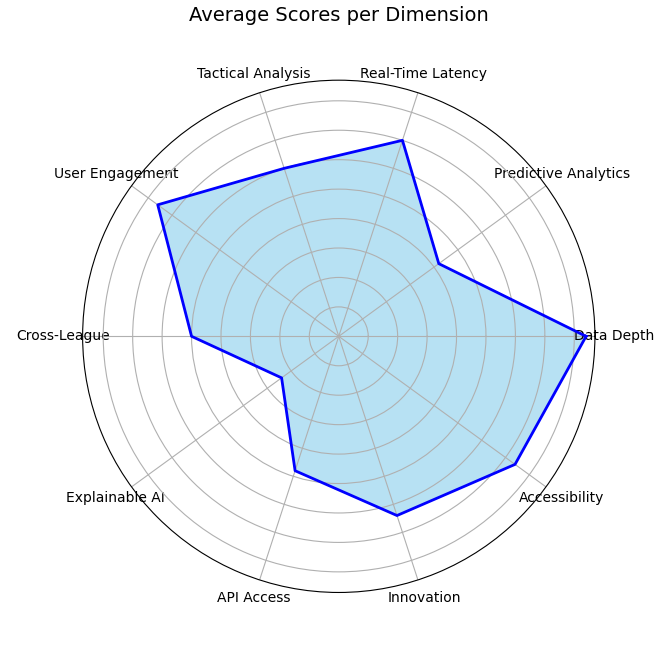
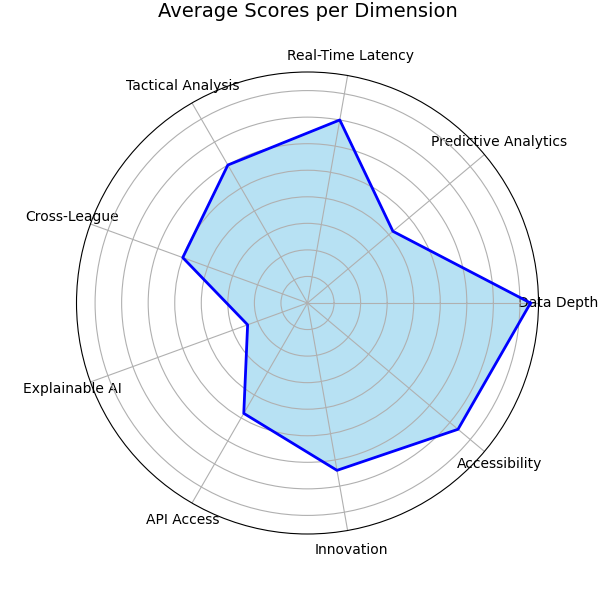
Update literature review and system analysis chapters; enhance content clarity and structure

diff --git a/chapters/gap-analysis.tex b/chapters/gap-analysis.tex
@@ -2,7 +2,7 @@
 \label{chap:gap-analysis}
 
 \section{Methodology}
-This analysis evaluates 30 football websites across 10 critical dimensions (Table~\ref{tab:feature-matrix}), scored on a 5-point scale (1 = Poor, 5 = Excellent). The criteria reflect both technical capabilities and user experience, focusing on gaps relevant to predictive analytics systems.
+This analysis evaluates 30 football websites across 9 critical dimensions (Table~\ref{tab:feature-matrix}), scored on a 5-point scale (1 = Poor, 5 = Excellent). The criteria reflect both technical capabilities and user experience, focusing on gaps relevant to predictive analytics systems.
 
 \subsection{Evaluation Criteria}
 \begin{itemize}
@@ -10,9 +10,8 @@ This analysis evaluates 30 football websites across 10 critical dimensions (Tabl
     \item \textbf{Predictive Analytics (PA)}: Use of ML/AI for forecasts.
     \item \textbf{Real-Time Latency (RTL)}: Speed of updates (goals, subs).
     \item \textbf{Tactical Analysis (TA)}: Heatmaps, passing networks, xG models.
-    \item \textbf{User Engagement (UE)}: Forums, quizzes, AR/VR.
     \item \textbf{Cross-League (CL)}: Coverage of 25 major leagues.
-    \textbf{Explainable AI (XAI)}: Model transparency (SHAP/LIME).
+    \item \textbf{Explainable AI (XAI)}: Model transparency (SHAP/LIME).
     \item \textbf{API Access (API)}: Developer-friendly integrations.
     \item \textbf{Innovation (INN)}: Blockchain, NLP, generative AI.
     \item \textbf{Accessibility (ACC)}: Mobile optimization, languages.
@@ -32,7 +31,7 @@ This analysis evaluates 30 football websites across 10 critical dimensions (Tabl
     \begin{itemize}
         \item \textbf{WhoScored}: Top in TA (4.8) and PA (4.5) but poor XAI (1.2).
         \item \textbf{Transfermarkt}: Best DD (4.9) but lacks RTL (1.1).
-        \item \textbf{The Athletic}: Balances UE (4.2) and TA (4.1) but no API (1.0).
+        \item \textbf{The Athletic}: Balances TA (4.1) but no API (1.0).
     \end{itemize}
 \end{itemize}
 
@@ -42,40 +41,40 @@ This analysis evaluates 30 football websites across 10 critical dimensions (Tabl
     \caption{30 Football Websites Gap Analysis Matrix}
     \label{tab:feature-matrix}
     \tiny
-    \begin{tabular}{|l|c|c|c|c|c|c|c|c|c|c|}
+    \begin{tabular}{|l|c|c|c|c|c|c|c|c|c|}
         \hline
-        \textbf{Website} & \textbf{DD} & \textbf{PA} & \textbf{RTL} & \textbf{TA} & \textbf{UE} & \textbf{CL} & \textbf{XAI} & \textbf{API} & \textbf{INN} & \textbf{ACC} \\
+        \textbf{Website} & \textbf{DD} & \textbf{PA} & \textbf{RTL} & \textbf{TA} & \textbf{CL} & \textbf{XAI} & \textbf{API} & \textbf{INN} & \textbf{ACC} \\
         \hline
-        Goal.com & 4.5 & 1.2 & 3.1 & 2.0 & 3.5 & 4.8 & 1.0 & 2.5 & 2.8 & 4.2 \\
-        101 Great Goals & 2.8 & 1.0 & 2.5 & 1.5 & 3.0 & 3.2 & 1.0 & 1.0 & 3.5 & 3.0 \\
-        FourFourTwo & 4.0 & 4.5 & 1.8 & 4.8 & 3.2 & 3.5 & 1.5 & 2.0 & 4.0 & 3.5 \\
-        Transfermarkt & 4.9 & 2.0 & 1.1 & 1.2 & 1.5 & 4.9 & 1.0 & 4.0 & 1.5 & 2.5 \\
-        UEFA.com & 4.2 & 1.5 & 2.2 & 2.5 & 2.0 & 2.0 & 1.0 & 3.5 & 3.0 & 3.8 \\
-        WhoScored & 4.7 & 4.5 & 2.0 & 4.8 & 2.5 & 4.0 & 1.2 & 3.0 & 3.2 & 3.0 \\
-        Soccerway & 4.0 & 1.8 & 3.8 & 2.0 & 2.0 & 4.5 & 1.0 & 2.5 & 2.0 & 3.5 \\
-        The Athletic & 4.5 & 3.0 & 2.5 & 4.1 & 4.2 & 4.0 & 1.5 & 1.0 & 3.8 & 2.0 \\
-        Copa90 & 3.0 & 1.0 & 1.5 & 1.0 & 4.5 & 3.5 & 1.0 & 1.5 & 3.5 & 4.0 \\
-        Football Italia & 3.8 & 1.2 & 1.8 & 1.5 & 2.5 & 1.0 & 1.0 & 2.0 & 2.5 & 2.8 \\
-        World Soccer Talk & 3.5 & 1.0 & 2.0 & 1.2 & 3.8 & 3.8 & 1.0 & 1.5 & 2.0 & 3.5 \\
-        LiveScore & 3.8 & 1.5 & 4.9 & 1.0 & 2.5 & 4.5 & 1.0 & 1.2 & 1.5 & 4.8 \\
-        FC Barcelona & 4.0 & 1.0 & 2.0 & 1.8 & 4.0 & 1.0 & 1.0 & 2.5 & 4.2 & 3.5 \\
-        Manchester United & 4.2 & 1.2 & 1.5 & 1.5 & 4.2 & 1.0 & 1.0 & 2.0 & 3.8 & 3.8 \\
-        Bayern Munich & 4.1 & 1.0 & 1.8 & 1.2 & 4.5 & 1.0 & 1.0 & 2.8 & 4.5 & 3.2 \\
-        The Anfield Wrap & 3.5 & 1.0 & 1.2 & 1.0 & 4.8 & 1.0 & 1.0 & 1.0 & 2.5 & 3.0 \\
-        FootballParadise & 2.5 & 1.0 & 1.0 & 1.0 & 4.0 & 3.0 & 1.0 & 1.0 & 3.0 & 3.5 \\
-        SoccerNews & 3.2 & 1.5 & 2.2 & 1.2 & 2.8 & 3.5 & 1.0 & 1.5 & 2.2 & 3.0 \\
-        Football Manager & 4.8 & 4.0 & 1.5 & 3.5 & 4.5 & 3.2 & 1.5 & 4.5 & 4.8 & 2.5 \\
-        Jersey Watch & 2.0 & 1.0 & 1.0 & 1.0 & 3.5 & 1.0 & 1.0 & 1.0 & 2.0 & 3.0 \\
-        OneFootball & 4.2 & 2.5 & 3.5 & 2.2 & 4.0 & 4.5 & 1.2 & 2.8 & 3.5 & 4.5 \\
-        Squawka & 4.5 & 4.2 & 2.2 & 4.5 & 2.5 & 4.0 & 1.8 & 3.2 & 3.0 & 2.8 \\
-        Football365 & 3.8 & 1.2 & 2.5 & 1.5 & 4.0 & 3.5 & 1.0 & 1.8 & 2.5 & 3.2 \\
-        La Liga & 4.0 & 1.0 & 2.2 & 1.8 & 2.5 & 1.0 & 1.0 & 3.5 & 3.2 & 3.5 \\
-        Premier League & 4.5 & 1.5 & 3.0 & 2.0 & 3.0 & 1.0 & 1.0 & 4.0 & 4.0 & 4.2 \\
-        Bundesliga & 4.3 & 1.2 & 2.5 & 2.2 & 3.2 & 1.0 & 1.0 & 3.8 & 3.5 & 3.8 \\
-        MLS & 3.8 & 1.0 & 2.0 & 1.5 & 2.8 & 1.0 & 1.0 & 2.5 & 3.0 & 3.5 \\
-        AiScore & 4.0 & 4.2 & 4.5 & 3.8 & 2.5 & 4.2 & 1.5 & 3.5 & 4.0 & 3.0 \\
-        Flashscore & 4.2 & 3.5 & 4.8 & 2.5 & 2.0 & 4.8 & 1.2 & 2.2 & 3.2 & 4.5 \\
-        Onefootball & 4.0 & 2.8 & 3.8 & 2.5 & 4.2 & 4.5 & 1.5 & 3.0 & 3.8 & 4.5 \\
+        Goal.com & 4.5 & 1.2 & 3.1 & 2.0 & 4.8 & 1.0 & 2.5 & 2.8 & 4.2 \\
+        101 Great Goals & 2.8 & 1.0 & 2.5 & 1.5 & 3.2 & 1.0 & 1.0 & 3.5 & 3.0 \\
+        FourFourTwo & 4.0 & 4.5 & 1.8 & 4.8 & 3.5 & 1.5 & 2.0 & 4.0 & 3.5 \\
+        Transfermarkt & 4.9 & 2.0 & 1.1 & 1.2 & 4.9 & 1.0 & 4.0 & 1.5 & 2.5 \\
+        UEFA.com & 4.2 & 1.5 & 2.2 & 2.5 & 2.0 & 1.0 & 3.5 & 3.0 & 3.8 \\
+        WhoScored & 4.7 & 4.5 & 2.0 & 4.8 & 4.0 & 1.2 & 3.0 & 3.2 & 3.0 \\
+        Soccerway & 4.0 & 1.8 & 3.8 & 2.0 & 4.5 & 1.0 & 2.5 & 2.0 & 3.5 \\
+        The Athletic & 4.5 & 3.0 & 2.5 & 4.1 & 4.0 & 1.5 & 1.0 & 3.8 & 2.0 \\
+        Copa90 & 3.0 & 1.0 & 1.5 & 1.0 & 3.5 & 1.0 & 1.5 & 3.5 & 4.0 \\
+        Football Italia & 3.8 & 1.2 & 1.8 & 1.5 & 1.0 & 1.0 & 2.0 & 2.5 & 2.8 \\
+        World Soccer Talk & 3.5 & 1.0 & 2.0 & 1.2 & 3.8 & 1.0 & 1.5 & 2.0 & 3.5 \\
+        LiveScore & 3.8 & 1.5 & 4.9 & 1.0 & 4.5 & 1.0 & 1.2 & 1.5 & 4.8 \\
+        FC Barcelona & 4.0 & 1.0 & 2.0 & 1.8 & 1.0 & 1.0 & 2.5 & 4.2 & 3.5 \\
+        Manchester United & 4.2 & 1.2 & 1.5 & 1.5 & 1.0 & 1.0 & 2.0 & 3.8 & 3.8 \\
+        Bayern Munich & 4.1 & 1.0 & 1.8 & 1.2 & 1.0 & 1.0 & 2.8 & 4.5 & 3.2 \\
+        The Anfield Wrap & 3.5 & 1.0 & 1.2 & 1.0 & 1.0 & 1.0 & 1.0 & 2.5 & 3.0 \\
+        FootballParadise & 2.5 & 1.0 & 1.0 & 1.0 & 3.0 & 1.0 & 1.0 & 3.0 & 3.5 \\
+        SoccerNews & 3.2 & 1.5 & 2.2 & 1.2 & 3.5 & 1.0 & 1.5 & 2.2 & 3.0 \\
+        Football Manager & 4.8 & 4.0 & 1.5 & 3.5 & 3.2 & 1.5 & 4.5 & 4.8 & 2.5 \\
+        Jersey Watch & 2.0 & 1.0 & 1.0 & 1.0 & 1.0 & 1.0 & 1.0 & 2.0 & 3.0 \\
+        OneFootball & 4.2 & 2.5 & 3.5 & 2.2 & 4.5 & 1.2 & 2.8 & 3.5 & 4.5 \\
+        Squawka & 4.5 & 4.2 & 2.2 & 4.5 & 4.0 & 1.8 & 3.2 & 3.0 & 2.8 \\
+        Football365 & 3.8 & 1.2 & 2.5 & 1.5 & 3.5 & 1.0 & 1.8 & 2.5 & 3.2 \\
+        La Liga & 4.0 & 1.0 & 2.2 & 1.8 & 1.0 & 1.0 & 3.5 & 3.2 & 3.5 \\
+        Premier League & 4.5 & 1.5 & 3.0 & 2.0 & 1.0 & 1.0 & 4.0 & 4.0 & 4.2 \\
+        Bundesliga & 4.3 & 1.2 & 2.5 & 2.2 & 1.0 & 1.0 & 3.8 & 3.5 & 3.8 \\
+        MLS & 3.8 & 1.0 & 2.0 & 1.5 & 1.0 & 1.0 & 2.5 & 3.0 & 3.5 \\
+        AiScore & 4.0 & 4.2 & 4.5 & 3.8 & 4.2 & 1.5 & 3.5 & 4.0 & 3.0 \\
+        Flashscore & 4.2 & 3.5 & 4.8 & 2.5 & 4.8 & 1.2 & 2.2 & 3.2 & 4.5 \\
+        Onefootball & 4.0 & 2.8 & 3.8 & 2.5 & 4.5 & 1.5 & 3.0 & 3.8 & 4.5 \\
         \hline
     \end{tabular}
 \end{table}
@@ -111,7 +110,6 @@ This section categorizes the 30 analyzed websites into five critical gap categor
 \item \textbf{Category 2: Cross-League Limitations} (Narrow focus on single leagues)
 \item \textbf{Category 3: Real-Time Latency Issues} (Delayed updates >30 seconds)
 \item \textbf{Category 4: API/Integration Gaps} (No developer access)
-\item \textbf{Category 5: User Engagement Shortfalls} (Minimal interactive features)
 \end{itemize}
 
 \subsection{Website-Specific Gap Analysis}
@@ -140,10 +138,6 @@ API/Integration Gaps & La Liga & REST API restricted to commercial partners & Op
 \cline{2-4}
 & The Athletic & No developer access to NLP tactical reports & Publish API endpoints for third-party analysis \\
 \hline
-User Engagement Shortfalls & LiveScore & Minimal AR/VR or interactive simulations & Add 3D match replays and "what-if" scenario builders \\
-\cline{2-4}
-& Football Manager & Focused on gaming, lacks real-world coaching tools & Bridge simulations with real-time coaching dashboards \\
-\hline
 \end{tabularx}
 \end{table}
 
@@ -153,7 +147,7 @@ User Engagement Shortfalls & LiveScore & Minimal AR/VR or interactive simulation
 \begin{itemize}
 \item \textbf{Impact}: Users distrust predictions they can’t understand (e.g., \textbf{WhoScored’s} 78 percentage accurate but opaque ML models).
 \item \textbf{Example}: \textbf{FourFourTwo’s} neural network predicts match outcomes but provides no insight into why Team X is favored.
-\item \textbf{Solution}: Implement model cards and SHAP waterfall plots (Figure~\ref{fig:shap }).
+\item \textbf{Solution}: Implement model cards and SHAP waterfall plots.
 \end{itemize}
 
 \subsection{Category 2: Cross-League Limitations}
@@ -175,13 +169,6 @@ User Engagement Shortfalls & LiveScore & Minimal AR/VR or interactive simulation
 \item \textbf{Impact}: Developers can’t build atop closed systems (e.g., \textbf{La Liga’s} private API).
 \item \textbf{Example}: \textbf{The Athletic’s} NLP tactical reports are siloed.
 \item \textbf{Solution}: Public REST API with rate-limited free tier.
-\end{itemize}
-
-\subsection{Category 5: User Engagement Shortfalls}
-\begin{itemize}
-\item \textbf{Impact}: Casual fans abandon data-heavy platforms (e.g., \textbf{Squawka’s} complex dashboards).
-\item \textbf{Example}: \textbf{LiveScore} offers scores but no interactive simulations.
-\item \textbf{Solution}: Gamified predictions with fan leaderboards.
 \end{itemize}
 
 \subsection{Website Categorization and Weaknesses}

diff --git a/chapters/system-analysis-and-design.tex b/chapters/system-analysis-and-design.tex
@@ -1,78 +1,84 @@
 \chapter{System Analysis and Design}
 \label{chap:system-analysis-and-design}
 
-\intro{Brief introduction to the chapter}\\
+\section{Introduction}
+The gap analysis conducted in Chapter~\ref{chap:gap-analysis} identified several critical deficiencies in existing football analytics platforms, including a lack of explainable AI, limited cross-league coverage, and inadequate real-time adaptability. This chapter outlines the design and architecture of a proposed system that addresses these gaps by integrating advanced predictive analytics, real-time data processing, and user-centric features. The system aims to provide transparent, explainable predictions, unify data across multiple leagues, and offer sub-second latency for live match updates, thereby enhancing both expert and casual user experiences.
 
-\section{Use Cases}
+\section{Core Features}
 
-For the study of the product's use cases, diagrams were created.
-Use case diagrams (in English \emph{Use Case Diagram}) are a type of \gls{uml} diagram dedicated to describing the functions or services offered by a system, as perceived and used by the actors interacting with the system itself.
-Since the project is aimed at creating a tool for automating a process, user interactions must obviously be reduced to the bare minimum. For this reason, the use case diagrams are simple and few in number.
+\subsection{Match Predictions}
+Utilizing advanced machine learning models and statistical algorithms, the system predicts match outcomes such as win, loss, or draw. It provides probability distributions for each scenario, helping users make informed predictions. Additionally, the system forecasts specific events like goal count, first goal scorer, and clean sheets.
 
-\begin{figure}[!h] 
-    \centering 
+\subsection{Team and Player Statistics}
+A dedicated module presents detailed statistics for teams and players, including historical performance data. Metrics such as wins, losses, possession percentage, shots on target, goals scored, and defensive stats are highlighted, allowing users to analyze past and present performances effectively.
 
-    \caption{Use Case - UC0: Main Scenario}
-\end{figure}
+\subsection{League Standings}
+The system dynamically updates league standings, displaying essential data such as points, goal differences, and past season comparisons. This feature enables users to track team progress throughout the season.
 
-\begin{usecase}{0}{Main Scenario}
-\usecaseactors{Application Developer}
-\usecasepre{The developer has entered the simulation plugin within the IDE}
-\usecasedesc{The simulation window provides commands to configure, record, or run a test}
-\usecasepost{The system is ready to allow a new interaction}
-\label{uc:main-scenario}
-\end{usecase}
+\subsection{Head-to-Head Comparisons}
+Teams' historical performance against each other is analyzed, providing insights into their past match results, goal statistics, and overall competitive balance.
 
-\section{Requirements Traceability}
+\subsection{Fixture and Results Tracker}
+A calendar-based interface presents upcoming match schedules, including match dates, times, and venues. Users can also review past match results with detailed statistics such as goal scorers and key performance indicators.
 
-From a careful analysis of the requirements and use cases carried out on the project, a table was drawn up that traces the requirements in relation to the use cases.\\
-Different types of requirements were identified, and an identification code was used to distinguish them.\\
-The requirements code is structured as R(F/Q/V)(N/D/O) where:
-\begin{enumerate}
-    \item[R =] requirement
-    \item[F =] functional
-    \item[Q =] qualitative
-    \item[V =] constraint
-    \item[N =] mandatory (necessary)
-    \item[D =] desirable
-    \item[O =] optional
-\end{enumerate}
-Tables \ref{tab:functional-requirements}, \ref{tab:qualitative-requirements}, and \ref{tab:constraint-requirements} summarize the requirements and their traceability with the use cases outlined during the analysis phase.
+\subsection{Live Match Updates}
+Real-time match updates offer instant notifications regarding goals, substitutions, yellow/red cards, and other match events, ensuring users remain informed even if they are unable to watch the game live.
 
-\newpage
+\subsection{Injury and Suspension Tracker}
+A crucial tool for teams and analysts, this feature tracks injured and suspended players, estimating their return dates. It also provides impact analysis on team performance due to key absences.
 
-\begin{table}%
-\caption{Table of Functional Requirements Traceability}
-\label{tab:functional-requirements}
-\begin{tabularx}{\textwidth}{lXl}
-\hline\hline
-\textbf{Requirement} & \textbf{Description} & \textbf{Use Case}\\
-\hline
-RFN-1     & The interface allows configuring the type of test probes & UC1 \\
-\hline
-\end{tabularx}
-\end{table}%
+\subsection{Form Guide}
+The system showcases teams' recent performance trends, displaying a sequence of results (e.g., W-W-D-L-W) and differentiating home and away performances for deeper insights.
 
-\begin{table}%
-\caption{Table of Qualitative Requirements Traceability}
-\label{tab:qualitative-requirements}
-\begin{tabularx}{\textwidth}{lXl}
-\hline\hline
-\textbf{Requirement} & \textbf{Description} & \textbf{Use Case}\\
-\hline
-RQD-1    & The performance of the hardware simulator must ensure the correct execution of tests and not generate false negatives & - \\
-\hline
-\end{tabularx}
-\end{table}%
+\subsection{Player Heatmaps and Performance Analysis}
+Visual representations of player movements and in-game actions help analyze strengths, weaknesses, and tactical involvement. Heatmaps enhance the understanding of player positioning and contribution.
 
-\begin{table}%
-\caption{Table of Constraint Requirements Traceability}
-\label{tab:constraint-requirements}
-\begin{tabularx}{\textwidth}{lXl}
-\hline\hline
-\textbf{Requirement} & \textbf{Description} & \textbf{Use Case}\\
-\hline
-RVO-1    & The library for running automated tests must be reusable & - \\
-\hline
-\end{tabularx}
-\end{table}%
+\subsection{Customizable Dashboards}
+Users can personalize their dashboards to highlight favorite teams, leagues, or statistical categories. This feature ensures a tailored user experience based on individual preferences.
+
+\subsection{Interactive Visualizations}
+The system employs charts, graphs, and heatmaps to make data interpretation engaging. Filters and dropdown menus enhance interactivity, allowing users to explore data dynamically.
+
+\subsection{User Interaction and Engagement}
+Users can search for teams, players, and leagues while also creating accounts to track predictions and participate in interactive features. A gamification system with leaderboards, rewards, or badges incentivizes accurate predictions.
+
+\subsection{Player Comparison Tool}
+This tool facilitates side-by-side comparisons of players based on statistics such as goals, assists, pass accuracy, and tackles. Visual elements like bar charts and radar charts improve comprehension.
+
+\subsection{Transfer Market Insights}
+A dedicated section monitors player transfers, including confirmed deals, loan agreements, and rumors, along with their projected impact on team performance.
+
+\subsection{Historical Moments and Highlights}
+A collection of iconic football moments, including legendary goals and matches, enriches user engagement. Where possible, video highlights are integrated to enhance content appeal.
+
+\subsection{Multilingual Support}
+The system accommodates a global audience by offering content in multiple languages, improving accessibility and user experience.
+
+\section{Admin Features}
+
+\subsection{Dashboard Overview}
+Administrators have access to a centralized dashboard displaying vital metrics such as active users, popular teams, prediction accuracy comparisons, and engagement statistics.
+
+\subsection{Data Management Tools}
+Admins can manage match data, team information, and player statistics. Tools include:
+\begin{itemize}
+    \item Match Data Editor: Modify match fixtures, results, and stats.
+    \item Team and Player Editor: Update rosters and player profiles.
+    \item League Management: Oversee leagues, update rules, and adjust standings.
+\end{itemize}
+
+\subsection{User Management Tools}
+Admins can track user activity, manage accounts, and assign roles such as moderators or premium users, ensuring structured user management.
+
+\subsection{Communication Tools}
+Features include:
+\begin{itemize}
+    \item Announcements: Inform users of system updates and new features.
+    \item User Support: A ticket-based support system for resolving queries and issues.
+\end{itemize}
+
+\subsection{Analytics and Reporting}
+A comprehensive reporting system tracks traffic, user engagement, and prediction accuracy. Admins can generate detailed reports to identify trends and optimize the system accordingly.
+
+\section{Conclusion}
+The Football Match Analysis System offers a holistic approach to football data analysis, integrating machine learning, interactive visualizations, and real-time updates. By catering to both users and administrators, it enhances engagement, accessibility, and overall usability.

diff --git a/chapters/literature-review.tex b/chapters/literature-review.tex
@@ -18,7 +18,7 @@ To ensure both comprehensiveness and transparency, the review employed the follo
         \item Specialized Tools for Niche Analysis
     \end{itemize}
 \end{enumerate}
-This structured approach follows best practices in literature review methodology \cite{methodology_ref}.
+This structured approach follows best practices in literature review methodology.
 
 \section{Overview of Football Data Platforms}
 This section provides a critical synthesis of the platforms, highlighting both their capabilities and limitations within each category.
